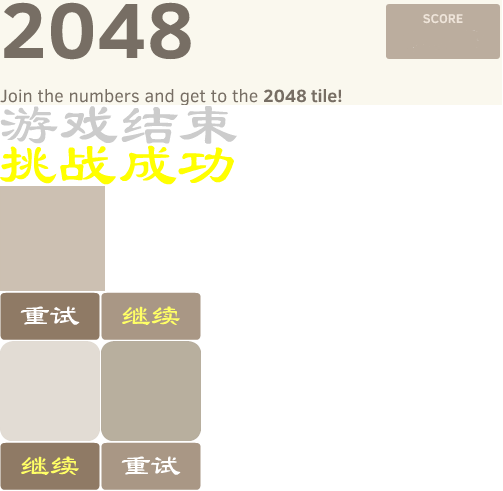
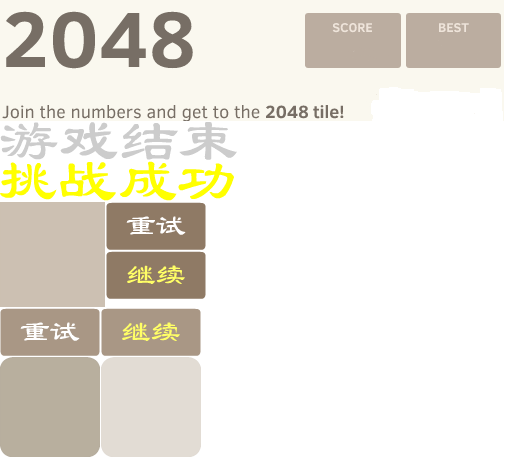
添加最高分功能

diff --git a/src/org/xzper/view/components/skin/MainMenuUISkin.ts b/src/org/xzper/view/components/skin/MainMenuUISkin.ts
@@ -11,7 +11,7 @@ module game {
 			super();
 		}
 		
-        private static _skinParts:Array<string> = ["addLabel","scoreLabel","resetButton"];
+        private static _skinParts:Array<string> = ["addLabel","scoreLabel","highScoreLabel","resetButton"];
 
         public get skinParts():Array<string>{
             return MainMenuUISkin._skinParts;
@@ -28,6 +28,11 @@ module game {
         public scoreLabel:egret.Label;
 
         /**
+         * 最高分文本
+         */
+        public highScoreLabel:egret.Label;
+
+        /**
          * 重置按钮
          */
         public resetButton:egret.Button;
@@ -42,16 +47,26 @@ module game {
 
 			this.resetButton = new egret.Button();
             this.resetButton.skinName = ResetButtonSkin;
-			this.resetButton.horizontalCenter = 75;
-			this.resetButton.label = "重置游戏";
-			this.resetButton.top = 8;
+			this.resetButton.right = 10;
+            this.resetButton.top = 80;
+            this.resetButton.label = "重置游戏";
 			this.addElement(this.resetButton);
 
+            this.highScoreLabel = new egret.Label();
+            this.highScoreLabel.text = "0";
+            this.highScoreLabel.horizontalCenter = 203;
+            this.highScoreLabel.size = 23;
+            this.highScoreLabel.textAlign = "center";
+            this.highScoreLabel.textColor = 0xFFFFFF;
+            this.highScoreLabel.verticalAlign = "middle";
+            this.highScoreLabel.top = 40;
+            this.addElement(this.highScoreLabel);
+
 			var group:egret.Group = new egret.Group;
-            group.width = 116;
+            group.width = 96;
             group.height = 56;
-			group.right = 2;
-			group.top = 4;
+			group.right = 103;
+			group.top = 15;
 			this.addElement(group);
 
 			this.scoreLabel = new egret.Label();
@@ -62,9 +77,9 @@ module game {
 			this.scoreLabel.textColor = 0xFFFFFF;
 			this.scoreLabel.verticalAlign = "middle";
 			this.scoreLabel.percentWidth = 100;
-			this.scoreLabel.y = 30;
+			this.scoreLabel.y = 25;
 			group.addElement(this.scoreLabel);
-			
+
 			this.addLabel = new egret.Label();
 			this.addLabel.horizontalCenter = 0;
 			this.addLabel.size = 20;

diff --git a/src/org/xzper/model/GameProxy.ts b/src/org/xzper/model/GameProxy.ts
@@ -12,13 +12,11 @@ module game {
 		 * 分数更新 , body  {totalScore:int , addScore:int}
 		 */
 		public static UPDATE_SCORE:string = "update_score";
-		
+
 		public static GAME_RESULT:string = "game_result";
 		
 		public static RESET_SCORE:string = "reset_score";
 		
-		private _score:number = 0;
-
 		private won:boolean = false;
 		private over:boolean = false;
 		
@@ -26,13 +24,23 @@ module game {
 		public constructor(){
 			super(GameProxy.NAME);
 		}
-		
-		/**
+
+        private _score:number = 0;
+        /**
 		 * 游戏分数
 		 */
 		public get score():number{
 			return this._score;
 		}
+
+        private _highScore:number = 0;
+
+        /**
+         * 最高分
+         */
+        public get highScore():number{
+            return this._highScore;
+        }
 		
 		/**
 		 * 重置游戏数据
@@ -51,7 +59,9 @@ module game {
 		public updateScore(addScore:number):void{
 			if(addScore != 0){
 				this._score += addScore;
-				this.sendNotification(GameProxy.UPDATE_SCORE , {"totalScore":this.score , "addScore":addScore});
+                if(this._score > this._highScore)
+                    this._highScore = this._score;
+				this.sendNotification(GameProxy.UPDATE_SCORE , {"totalScore":this.score , "highScore":this.highScore ,"addScore":addScore});
 			}
 		}
 		

diff --git a/launcher/egret_loader.js b/launcher/egret_loader.js
@@ -69,9 +69,9 @@ egret_h5.startGame = function () {
 
     //设置屏幕适配策略
     var container = new egret.EqualToFrame();
-    var content = egret.Browser.getInstance().isMobile ? new egret.FixedWidth() : new egret.FixedSize(510, 650);
+    var content = egret.Browser.getInstance().isMobile ? new egret.FixedWidth() : new egret.FixedSize(520, 700);
     var policy = new egret.ResolutionPolicy(container, content);
-    egret.StageDelegate.getInstance().setDesignSize(510, 650, policy);
+    egret.StageDelegate.getInstance().setDesignSize(520, 700, policy);
 
     egret.RendererContext.CONTENT_SCALE_FACTOR = 1;
     context.run();

diff --git a/launcher/index.html b/launcher/index.html
@@ -30,7 +30,7 @@
 <body>
 <div style="display:inline-block;width:100%; height:100%;margin: 0 auto; background: #ffffff; position:relative;"
      id="gameDiv">
-    <canvas id="gameCanvas" width="510" height="650" style="background-color: #ffffff"></canvas>
+    <canvas id="gameCanvas" width="520" height="700" style="background-color: #ffffff"></canvas>
 </div>
 <script src="bin-debug/lib/egret_file_list.js"></script>
 <script src="launcher/egret_loader.js"></script>

diff --git a/src/org/xzper/view/ApplicationMediator.ts b/src/org/xzper/view/ApplicationMediator.ts
@@ -112,7 +112,7 @@ module game {
          */
         private doMove(direction:number):void
         {
-            if(CommonData.isRunning && (egret.getTimer() - this.lastMoveTime)>=100) {
+            if(CommonData.isRunning && (egret.getTimer() - this.lastMoveTime)>=200) {
                 switch (direction) {
                     case 0:
                         this.sendNotification(GameCommand.USER_MOVE, 0);    //上

diff --git a/src/org/xzper/view/MainMenuMediator.ts b/src/org/xzper/view/MainMenuMediator.ts
@@ -29,7 +29,8 @@ module game {
 			switch(notification.getName()){
 				case GameProxy.UPDATE_SCORE:{
 					this.mainGameUI.scoreLabel.text = data["totalScore"].toString();
-					this.mainGameUI.playScoreEffect(data["addScore"]);
+                    this.mainGameUI.highScoreLabel.text = data["highScore"].toString();
+                    this.mainGameUI.playScoreEffect(data["addScore"]);
 					break;
 				}
 

diff --git a/src/org/xzper/view/components/MainMenuUI.ts b/src/org/xzper/view/components/MainMenuUI.ts
@@ -10,6 +10,7 @@ module game {
 	export class MainMenuUI extends egret.SkinnableComponent{
 		public addLabel:egret.Label;
 		public scoreLabel:egret.Label;
+        public highScoreLabel:egret.Label;
 		public resetButton:egret.Button;
 		
 		public constructor(){

diff --git a/src/org/xzper/app/AppContainer.ts b/src/org/xzper/app/AppContainer.ts
@@ -35,7 +35,7 @@ module game {
 			this.addElement(this.mainMenuUI);
 
 			this.mainGameUI = new MainGameUI();
-			this.mainGameUI.top = 130;
+			this.mainGameUI.top = 140;
 			this.mainGameUI.horizontalCenter = 0;
 			this.addElement(this.mainGameUI);
 		}
